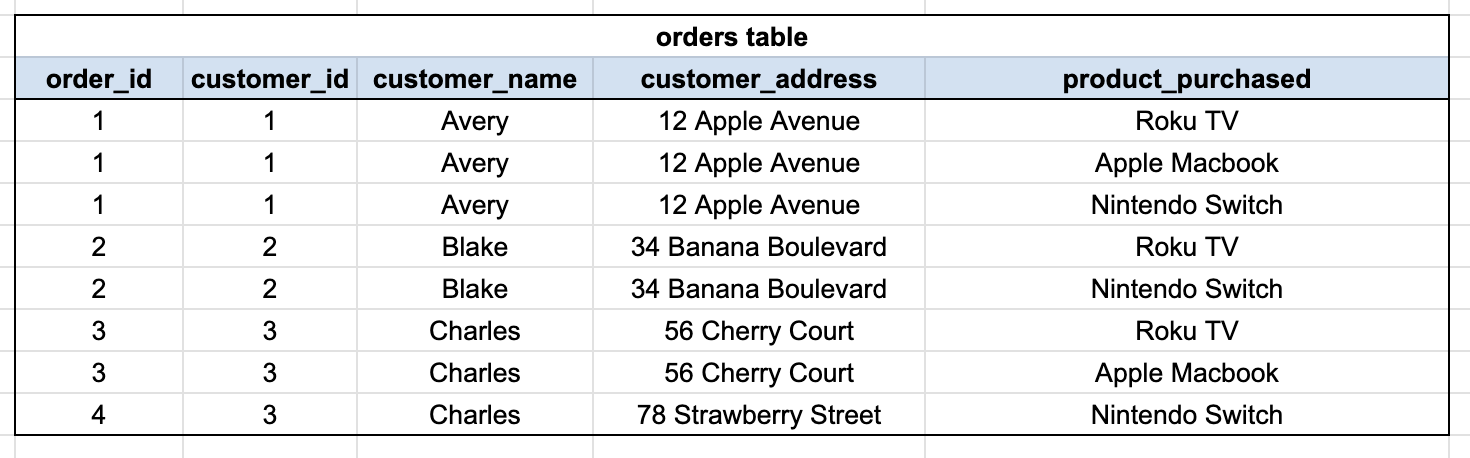
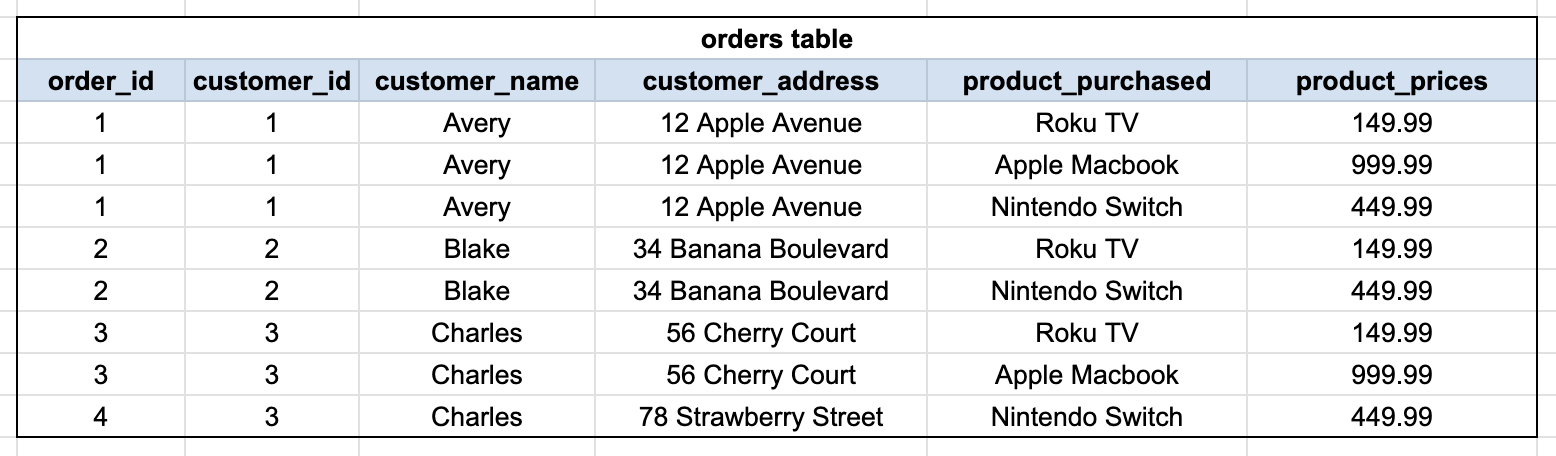
further improvements

Changed region(s): [[0.0, 0.0, 1.0, 1.0]]

diff --git a/mod-6-databases/5-schema-design-and-normalization.md b/mod-6-databases/5-schema-design-and-normalization.md
@@ -16,12 +16,14 @@ In this lesson, you'll learn what normalization means, why it matters, and how t
 - [Normalization](#normalization)
   - [Normalization Rule #1: Unique Primary Keys](#normalization-rule-1-unique-primary-keys)
   - [Normalization Rule #2: Atomic Values](#normalization-rule-2-atomic-values)
-  - [Don't Forget The Primary Key!](#dont-forget-the-primary-key)
+    - [Don't Forget The Primary Key!](#dont-forget-the-primary-key)
   - [Normalization Rule #3: Primary Key Dependency](#normalization-rule-3-primary-key-dependency)
-- [The Three-Step Design Process](#the-three-step-design-process)
+    - [Association Tables for Many-To-Many Relationships](#association-tables-for-many-to-many-relationships)
+- [The Four-Step Design Process](#the-four-step-design-process)
   - [Step 1 — Identify Tables](#step-1--identify-tables)
   - [Step 2 — Define Columns](#step-2--define-columns)
   - [Step 3 — Determine Relationships](#step-3--determine-relationships)
+  - [Step 4 — Apply Constraints](#step-4--apply-constraints)
 - [From Design to SQL](#from-design-to-sql)
   - [See It in Action](#see-it-in-action)
 - [Normalization Rules Challenge](#normalization-rules-challenge)
@@ -46,7 +48,7 @@ By the end of this lesson, you should be able to answer these questions:
 * **Schema design** — the process of planning that structure before writing any code.
 * **One-to-many** — a relationship where one row in table A can be referenced by many rows in table B (e.g., one user has many posts).
 * **Many-to-many** — a relationship where rows in each table can reference many rows in the other (e.g., a student can enroll in many classes; a class can have many students).
-* **Association/junction table** — a table that represents a many-to-many relationship by storing two foreign keys, one referencing each side.
+* **Association/Bridge table** — a table that represents a many-to-many relationship by storing two foreign keys, one referencing each side.
 * **ERD (Entity Relationship Diagram)** — a visual diagram showing each table's columns and the relationships between tables. *(See the Extension section.)*
 
 ## What is Schema Design?
@@ -59,7 +61,7 @@ When you write `CREATE TABLE`, you are declaring your schema in SQL. Consider th
 CREATE TABLE authors (
   author_id SERIAL PRIMARY KEY,
   first_name TEXT NOT NULL,
-  last_name INT NOT NULL,
+  last_name TEXT NOT NULL,
   dob DATE
 );
 
@@ -93,7 +95,7 @@ Understanding the principles of normalization will allow you to defend and expla
 
 Consider the database table below which stores data for orders from an electronics store:
 
-![A table of orderes with order_id, customer_id, customer_name, customer_address, and products_purchased.](./img/5-schema-design-normalization/normalization-1.png)
+![A table of orders with order_id, customer_id, customer_name, customer_address, products_purchased, and product_prices.](./img/5-schema-design-normalization/normalization-1.png)
 
 **<details><summary>Q: Where do you see corrupted (inaccurate and/or inconsistent) data? Where do you see redundant data?</summary>**
 
@@ -105,7 +107,11 @@ SELECT customer_address FROM orders WHERE customer_id = 3;
 ```
 In addition, the `customer_name` column is redundant. The `customer_id` column uniquely identifies the customer on its own making the `customer_name` column unnecessary and opens the door for potential data corruption.
 
+When looking at `product_prices`, the data is very repetitive and if we wanted to update the price for a product, we would have to update it in every row.
+
 </details>
+
+There are a number of things wrong with this schema design. Let's fix them by applying the rules of normalization.
 
 ### Normalization Rule #1: Unique Primary Keys
 
@@ -123,17 +129,19 @@ Primary keys also allow for the existence of foreign keys: columns in tables tha
 
 Atomicity ("being like an atom") means that every cell must contains a single, indivisible value — no comma-separated lists, no arrays, no packed strings. A cell that follows this rule is "atomic".
 
-Consider this `orders` table again and notice that `products_purchased` is *not* atomic. 
+Consider this `orders` table again and notice that both `products_purchased` and `product_prices` are *not* atomic. 
 
-![A table of orderes with order_id, customer_id, customer_name, customer_address, and products_purchased.](./img/5-schema-design-normalization/normalization-1.png)
+![A table of orders with order_id, customer_id, customer_name, customer_address, products_purchased, and product_prices.](./img/5-schema-design-normalization/normalization-1.png)
 
-Storing multiple values in one column feels convenient, but it creates real problems:
-- **Updates are fragile** — renaming a product (e.g. from `'Apple Macbook'` to `'Apple Macbook Pro'`) means hunting inside comma-separated strings across every row to make the change
-- **Querying is awkward** — "find all orders that include `'Laptop'`" is possible but awkward with a simple `WHERE` clause. Again, string parsing is required.
+**<details><summary>Q: What difficulties could storing multiple values in one cell create?</summary>**
+Storing multiple values in one column feels convenient, but it also makes the database harder to work with:
+- **Updates are fragile**: The `product_prices` column is fully dependent on the `products_purchased` column so the order of values must match perfectly. If a customer decides to remove a product from their order, we also have to update the product prices list. If we forget to change both columns, or we make a mistake, it can be difficult to debug.
+- **Querying is awkward**: If I want to know the price of a product, I have to query both columns, then use string parsing to separate both columns into parallel arrays, find the index of the product I'm looking for, then grab the matching price. What a headache!
+</details>
 
-We can fix this by giving each `product_purchased` value its own row:
+We can fix this by giving each product in each order its own row:
 
-![Every cell contains one and only one value. These cells are "atomic".](./img/5-schema-design-normalization/normalization-2.png)
+![The same orders table where products_purchased and product_prices each have one value per row. Every cell is now atomic.](./img/5-schema-design-normalization/normalization-2.png)
 
 We've satisfied the rule of atomicity! But we've caused another issue.
 
@@ -145,7 +153,7 @@ Technically, we can uniquely identify each row if we treat the combination of th
 
 </details>
 
-### Don't Forget The Primary Key!
+#### Don't Forget The Primary Key!
 
 Remember, every table needs a single unique, primary key to identify each row. We *could* do this by adding a column called `order_product_id`:
 
@@ -161,11 +169,13 @@ The issue with this design is that we now have a lot of redundant and repetitive
 
 **<details><summary>Q: Which columns are dependent on a non-primary key column? Look for rows that have pairs of columns whose values are always the same.</summary>**
 
-Both `customer_name` and `customer_address` depend on the on `customer_id` (every row with `customer_id=1` has `customer_name=Avery` and `customer_address='12 Apple Avenue'`)
+Both `customer_name` and `customer_address` depend on the on `customer_id` (the customer with `customer_id=1` should always have `customer_name=Avery` and `customer_address='12 Apple Avenue'`)
 
-Similarly, the `customer_id` value is dependent on `order_id` (every row with `order_id=1` has `customer_id=1`).
+The `customer_id` value is dependent on `order_id` (every order with `order_id=1` should always have `customer_id=1`).
 
-None of these columns depend on `order_product_id`.
+The `product_price` value is dependent on the `product_purchased` (every Roku TV should always cost 149.99)
+
+None of these columns depend on the primary key `order_product_id`.
 
 </details>
 
@@ -173,30 +183,48 @@ The existence of non-primary key dependencies creates repetitive/redundant data 
 
 * If Charles (`customer_id=3`) changes their address in the database, then every row with `customer_id=3` must also be changed. Miss one and the data is inconsistent. We can see that this already happened!
 * An order can only ever have one customer attached to it making it redundant to list the customer next to the order when listing out the products in an order.
+* If the price changes for the Roku TV, we need to update the price in every single row where Roku TV appears.
 
 ### Normalization Rule #3: Primary Key Dependency
 
-The third rule of normalization avoids redundancy and repetitive data by requiring that every column must depend solely on the primary key — not on some other column.
+The third rule of normalization avoids redundancy and repetitive data by requiring that every column depend solely on the primary key — not on some other column.
 
 We fix this by extracting each dependency into its own table:
 
-* **`customers`** tells us details about each customer and nothing else
+* **`customers`** tells us details about each customer
+* **`products`** tells us details about each product
 * **`orders`** tells us who placed each order
 * **`order_products`** tells us which products were purchased in each order
 
-![](./img/5-schema-design-normalization/normalization-3-good.png)
+![The single "flat" table has been split into four tables](./img/5-schema-design-normalization/normalization-3-good.png)
 
-Now, when Charles updates his address, the change only happens in one place. Additionally, the orders table only needs to know the `customer_id`, not the name or address.
+This new schema has a number of improvements:
+* Now, when Charles updates his address, the change only happens in one place. 
+* The same is true if we need to update the price of a product.
+* The `orders` table only needs to know the `customer_id`, not the name or address.
 
-## The Three-Step Design Process
+#### Association Tables for Many-To-Many Relationships
+
+This database schema has a few interesting relationships now:
+* **Customers --< Orders**: A customer can place many orders (one to many)
+* **Orders >--< Products**: An order can contain main products AND a product can be in many orders (many to many)
+
+The `orders` table is the representation of the **one-to-many** relationship between orders and customers. As you can see, each `order_id` corresponds with a specific `customer_id`, but the same `customer_id` can show up many times.
+
+We can't add a `product` column to the `orders` table since each order can have many products. Instead, we create the `order_products` table to represent the **many-to-many** relationship between orders and products.
+
+This kind of many-to-many table is also called a **bridge table** or **association table**.
+
+## The Four-Step Design Process
 
 Normalization is something that you can do to improve the design of an existing database. But we can and should use those principles from the start when designing a database from scratch.
 
-A normalized schema emerges naturally from following three steps:
+A normalized schema emerges naturally from following four steps:
 
 1. **Identify tables** — what distinct types of things does the app need to store? Each type of entity that has its own properties and its own lifecycle gets its own table.
 2. **Define columns** — what properties does each entity have? If a property could change independently of the others (like a product name), it belongs in its own table, not repeated as a column on a related table.
 3. **Determine relationships** — how do the entities relate? If the relationship produces multiple values per row, you need a junction table (Rule #2). If a column's value is determined by a non-primary column, it needs to move to its own table (Rule #3).
+4. **Apply Constraints** — which properties must be unique? Which properties cannot be null? Which properties should have a default value if no value is provided?
 
 We'll apply these steps to design a school database. Here are the user stories:
 
@@ -215,7 +243,7 @@ Each distinct entity — something with its own properties and its own existence
 - `students` — a student exists independently; they have their own name, DOB, etc.
 - `teachers` — a teacher exists independently; they have their own name, etc.
 - `classes` — a class exists independently; it has a title and an assigned teacher
-- `enrollments` — the relationship between students and classes needs its own table (a student can be in many classes, a class can have many students — this is a many-to-many, which means a junction table)
+- `enrollments` — the relationship between students and classes needs its own table (a student can be in many classes, a class can have many students — this is a many-to-many, which means an association table)
 
 Without `enrollments`, the only alternative would be storing courses as a comma-separated list on the `students` table — a direct violation of atomicity.
 
@@ -223,9 +251,13 @@ Without `enrollments`, the only alternative would be storing courses as a comma-
 
 ### Step 2 — Define Columns
 
-For each table, define a primary key column named after the table (`student_id`, `teacher_id`, `class_id`). Foreign keys use the exact same name as the primary key they reference.
+For each table, define a primary key column named after the table (`student_id`, `teacher_id`, `class_id`). 
 
-Then ask: which additional information is needed to answer the user story questions? Which table does each piece of information belong to?
+Then ask: which additional columns are needed to answer the user story questions? Which table does each piece of information belong to? Which tables need foreign key columns to connect to other tables?
+
+{% hint style="info" %}
+Foreign keys use the exact same name as the primary key they reference.
+{% endhint %}
 
 **<details><summary>School Solution</summary>**
 
@@ -246,7 +278,7 @@ For each table, ask: is each relationship one-to-many or many-to-many?
 **<details><summary>School Solution</summary>**
 
 - A teacher can teach many classes, but each class has only one teacher → **one-to-many**. `teacher_id` lives on `classes`.
-- A student can be enrolled in many classes, and a class can have many students → **many-to-many**. The `enrollments` junction table holds both `student_id` and `class_id`.
+- A student can be enrolled in many classes, and a class can have many students → **many-to-many**. The `enrollments` association table holds both `student_id` and `class_id`.
 
 </details>
 
@@ -256,7 +288,41 @@ A student can be enrolled in many classes and a class can have many students —
 
 The only alternative would be storing courses as a comma-separated list (e.g., `courses = "Math, Science, History"`) directly on the `students` table. That breaks the rule of atomicity — multiple values in one cell. Querying it is awkward, updating it is fragile, and you can't enforce foreign keys to the `classes` table.
 
-The `enrollments` junction table solves this by giving each student-class pairing its own row. This is normalization in practice: a relationship that produces multiple values per entity gets its own table.
+The `enrollments` association table solves this by giving each student-class pairing its own row. This is normalization in practice: a relationship that produces multiple values per entity gets its own table.
+
+</details>
+
+### Step 4 — Apply Constraints
+
+Once you know your tables, columns, and relationships, ask: what rules should the database enforce on the data itself?
+
+- **`NOT NULL`** — must this column always have a value? Names, titles, and foreign keys usually should.
+- **`UNIQUE`** — must this value (or combination of values) be unique across all rows? Usernames, emails, and association table pairs usually should.
+- **`DEFAULT`** — what value should this column have if none is provided? Timestamps and boolean flags often have sensible defaults.
+
+**<details><summary>School Solution</summary>**
+
+- `students.first_name`, `students.last_name` — `NOT NULL`: a student must have a name
+- `students.dob` — nullable: date of birth is useful but not required to enroll
+- `teachers.first_name`, `teachers.last_name` — `NOT NULL`: a teacher must have a name
+- `classes.title` — `NOT NULL`: a class must have a title
+- `classes.teacher_id` — nullable: a class might exist before a teacher is assigned
+- `enrollments.student_id`, `enrollments.class_id` — `NOT NULL`: an enrollment without a student or class is meaningless
+- `enrollments (student_id, class_id)` — `UNIQUE`: a student should only be enrolled in the same class once
+
+</details>
+
+**<details><summary>Q: Why should `classes.teacher_id` be nullable rather than `NOT NULL`?</summary>**
+
+A class might be created before a teacher is assigned to it — for example, when building out the semester schedule before staff assignments are finalized. Making `teacher_id NOT NULL` would prevent the class from being inserted until a teacher exists and is known. Keeping it nullable allows the class to exist independently and have a teacher assigned later.
+
+</details>
+
+**<details><summary>Q: Why does `enrollments` need `UNIQUE (student_id, class_id)` rather than just making `student_id` or `class_id` unique on their own?</summary>**
+
+Making `student_id` unique on `enrollments` would mean each student could only ever be enrolled in one class — clearly wrong. Making `class_id` unique would mean each class could only ever have one student. Neither column should be unique on its own.
+
+The constraint we actually want is: the *combination* of `student_id` and `class_id` must be unique. A student can be in many classes, and a class can have many students — but the same student cannot be in the same class twice. `UNIQUE (student_id, class_id)` expresses exactly that rule.
 
 </details>
 
@@ -472,7 +538,7 @@ Now `department_name` lives in exactly one place — rename Engineering once and
 
 ## Practice
 
-In groups, design a schema for one of the following. Follow the three-step process, then translate your design to SQL. Be ready to explain every structural decision in terms of normalization.
+In groups, design a schema for one of the following. Follow the four-step process, then translate your design to SQL. Be ready to explain every structural decision in terms of normalization.
 
 - An online store (users, products, orders, order items)
 - A photo-sharing app with comments (users, photos, comments)
@@ -481,15 +547,17 @@ In groups, design a schema for one of the following. Follow the three-step proce
 
 **Step 1 — Plan your schema**
 
-Work through the three steps on paper or a whiteboard:
+Work through the four steps on paper or a whiteboard:
 - Which tables do you need? What does each one represent?
 - What columns does each table have? Where does each piece of information belong?
 - What are the relationships? Which are one-to-many? Which are many-to-many?
+- What constraints should exist on the columns? Which should be unique, not null, or have default values?
 
 For each decision, be able to answer:
 - **Why is this a separate table?** (What redundancy or violation would occur if it weren't?)
 - **Why does this column live here and not somewhere else?** (What does it depend on?)
 - **Why does this relationship need a junction table?**
+- **Why must this column be unique, be not null, or have a default value?**
 
 **Step 2 — Translate your design to SQL**
 
